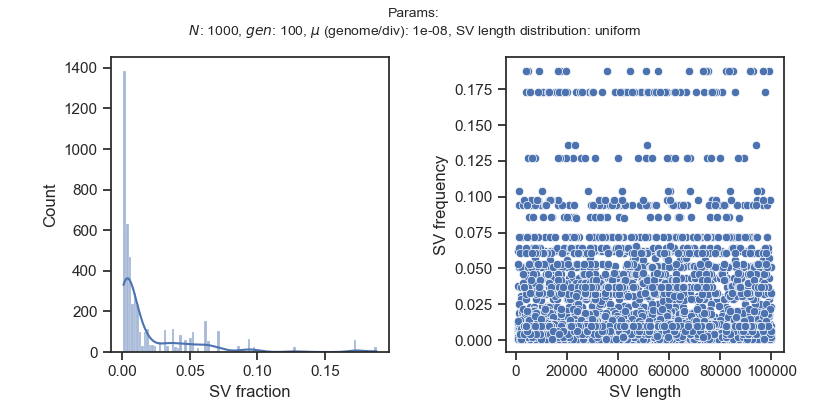
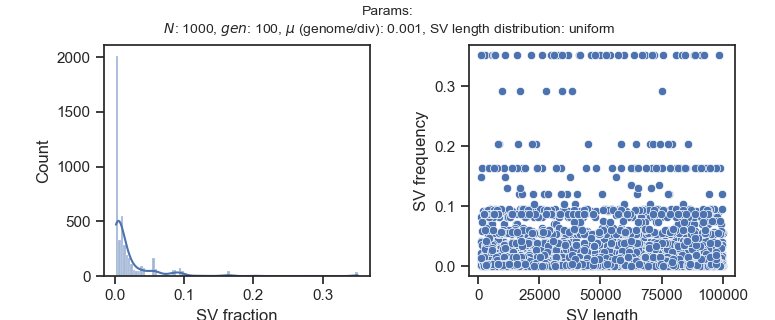
Adding example

diff --git a/sv.py b/sv.py
@@ -7,9 +7,9 @@ import seaborn as sns
 class Simulator:
     def __init__(self, params: dict):
         self.population_size = params['population_size']
-        self.generations = 100
-        self.mutation_rate = 1e-8
-        self.sv_length_distribution = 'uniform'
+        self.generations = params['generations']
+        self.mutation_rate = params['mutation_rate']
+        self.sv_length_distribution = params['sv_length_distribution']
         
     def run(self):
         sim = sv_evolution(self.population_size, self.generations, self.mutation_rate, self.sv_length_distribution)
